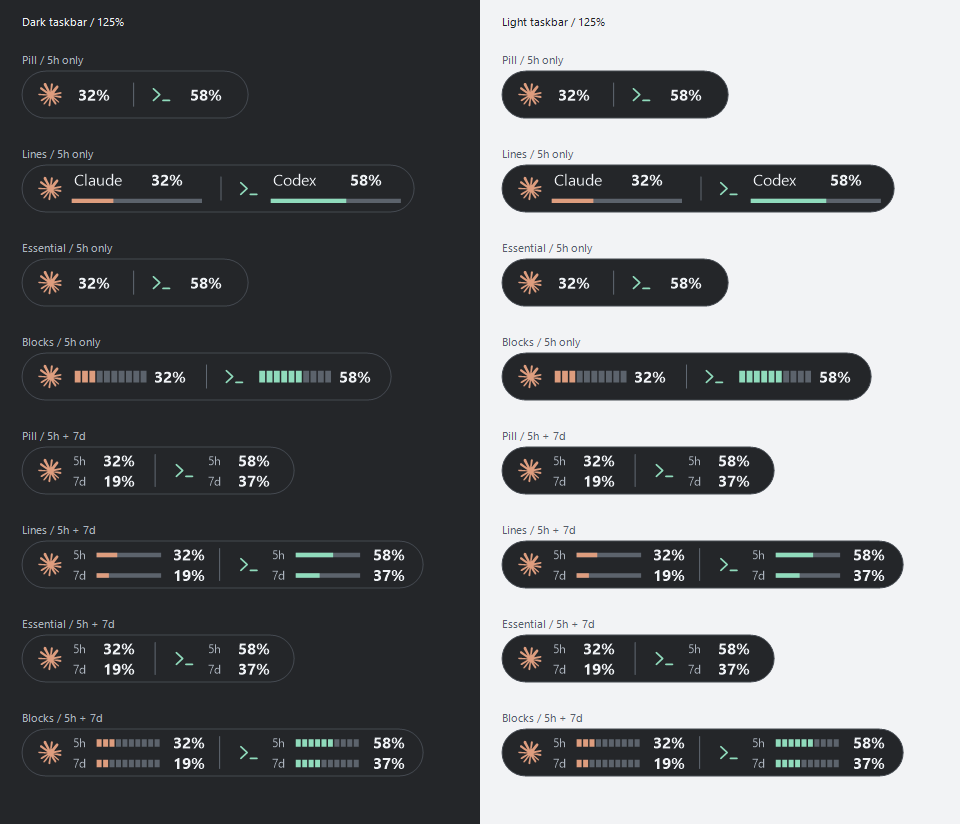
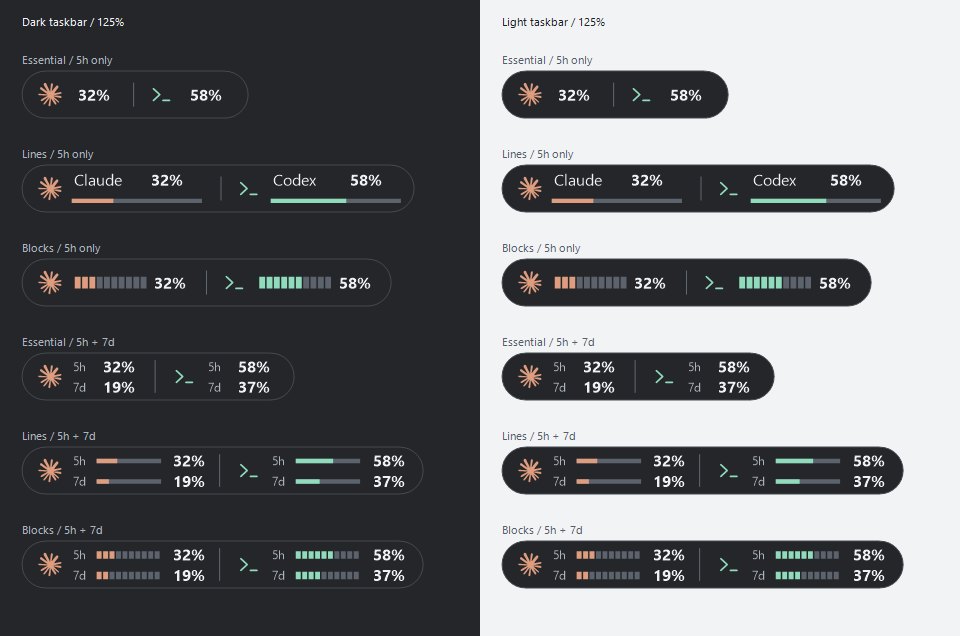
Remove duplicate Pill option and default to Essential, Lines, Blocks

diff --git a/src/Taskcode.Probe/Program.cs b/src/Taskcode.Probe/Program.cs
@@ -122,7 +122,7 @@ namespace Taskcode.Probe
                         Assert(!window.Visible && !window.IsDisposed && window.TrayVisible, "Closing settings must hide them while keeping the tray application alive.");
                         Assert(startupBefore == StartupRegistration.IsEnabled(Application.ExecutablePath), "Opening and closing the app must not enable startup.");
                         Assert(StartupRegistration.CommandFor(@"C:\Program Files\Taskcode\Taskcode.exe") == "\"C:\\Program Files\\Taskcode\\Taskcode.exe\" --tray", "Startup must quote paths containing spaces and launch in tray mode.");
-                        result = "PASS: fixed dark settings, Pill-first defaults, navigation and bounds across taskbar palettes, tray lifecycle, unchanged startup registration, quoted startup command, and isolated Claude/Codex details.";
+                        result = "PASS: fixed dark settings, Essential-first defaults, navigation and bounds across taskbar palettes, tray lifecycle, unchanged startup registration, quoted startup command, and isolated Claude/Codex details.";
                         success = true;
                     }
                     catch (Exception ex) { result = "FAIL: " + ex.Message; }
@@ -183,7 +183,7 @@ namespace Taskcode.Probe
                 SignInChecks.Run(AppDomain.CurrentDomain.BaseDirectory);
                 DetailChecks.Run();
                 RenderChecks.Run(AppDomain.CurrentDomain.BaseDirectory);
-                File.WriteAllText(output, "PASS: 7 placement assertions.\nPASS: provider routing in all 4 styles, with weekly off/on and scaled coordinates.\nPASS: 10 time-progress and budget-pace assertions.\nPASS: recent-speed, source cadence, sparse observations, projections, and sequential-fade checks.\nPASS: account parsing, missing/expired windows, fractional readings, privacy, provider isolation, stale data, and no synthetic live observations.\nPASS: activity lifecycle, multiple sessions, incremental records, hook preservation, and staggered transparent Ripple rendering.\nPASS: full-area mouse input, context-menu isolation, no host activation, visibility, and redraw in Embedded/Overlay.\nPASS: account sign-in windows, existing/new-account routing, safe CLI argument handling, and Claude API response parsing.\nPASS: clean borderless Details, complete percentages, pointer retention, gap crossing, and immediate dismissal.\nPASS: all 4 styles in light/dark palettes, transparent outer corners, fixed dark capsule in every style, visible vector/text content, and palette contrast.\n");
+                File.WriteAllText(output, "PASS: 7 placement assertions.\nPASS: provider routing in all 3 styles, with weekly off/on and scaled coordinates.\nPASS: 10 time-progress and budget-pace assertions.\nPASS: recent-speed, source cadence, sparse observations, projections, and sequential-fade checks.\nPASS: account parsing, missing/expired windows, fractional readings, privacy, provider isolation, stale data, and no synthetic live observations.\nPASS: activity lifecycle, multiple sessions, incremental records, hook preservation, and staggered transparent Ripple rendering.\nPASS: full-area mouse input, context-menu isolation, no host activation, visibility, and redraw in Embedded/Overlay.\nPASS: account sign-in windows, existing/new-account routing, safe CLI argument handling, and Claude API response parsing.\nPASS: clean borderless Details, complete percentages, pointer retention, gap crossing, and immediate dismissal.\nPASS: all 3 styles in light/dark palettes, transparent outer corners, fixed dark capsule in every style, visible vector/text content, and palette contrast.\n");
                 return 0;
             }
             catch (Exception ex) { File.WriteAllText(output, "FAIL: " + ex.Message); return 1; }

diff --git a/src/Taskcode.Probe/Indicator.cs b/src/Taskcode.Probe/Indicator.cs
@@ -6,12 +6,12 @@ using System.Windows.Forms;
 
 namespace Taskcode.Probe
 {
-    internal enum IndicatorStyle { Pill, Lines, Essential, Blocks }
+    internal enum IndicatorStyle { Essential, Lines, Blocks }
     internal enum HostMode { Embedded, Overlay }
 
     internal sealed class IndicatorView : Control
     {
-        internal IndicatorStyle Style = IndicatorStyle.Pill;
+        internal IndicatorStyle Style = IndicatorStyle.Essential;
         internal bool ShowWeekly;
         internal int PulseKey;
         internal int ActivityKey;
@@ -30,7 +30,7 @@ namespace Taskcode.Probe
         }
         private const float IndicatorScale = 1.17f;
         private const int PillLeftPadding = 8;
-        private static bool Compact(IndicatorStyle style) { return style == IndicatorStyle.Essential || style == IndicatorStyle.Pill; }
+        private static bool Compact(IndicatorStyle style) { return style == IndicatorStyle.Essential; }
         private static int ProviderGapReduction(IndicatorStyle style, bool weekly) { return Compact(style) ? (weekly ? 4 : 8) : 0; }
         private static int ContentWidth(IndicatorStyle style, bool showWeekly)
         {
@@ -85,7 +85,6 @@ namespace Taskcode.Probe
                     g.DrawPath(edge, shape);
                 }
                 g.TranslateTransform(PillLeftPadding, 0);
-                if (style == IndicatorStyle.Pill) style = IndicatorStyle.Essential;
             }
             // Pixel units avoid applying the monitor's DPI twice when scaling.
             // Grayscale antialiasing works on an alpha surface without colored fringes.

diff --git a/src/Taskcode.Probe/Settings.cs b/src/Taskcode.Probe/Settings.cs
@@ -8,7 +8,7 @@ namespace Taskcode.Probe
 
     internal sealed class Settings
     {
-        internal IndicatorStyle Style = IndicatorStyle.Pill;
+        internal IndicatorStyle Style = IndicatorStyle.Essential;
         internal HostMode Mode = HostMode.Embedded;
         internal DetailsTrigger DetailsTrigger = DetailsTrigger.Hover;
         internal bool ShowWeekly;
@@ -26,7 +26,9 @@ namespace Taskcode.Probe
                 HostMode mode;
                 DetailsTrigger detailsTrigger;
                 bool showWeekly;
-                if (Enum.TryParse(doc.DocumentElement.GetAttribute("style"), out style) && Enum.IsDefined(typeof(IndicatorStyle), style)) value.Style = style;
+                string savedStyle = doc.DocumentElement.GetAttribute("style");
+                if (savedStyle == "Pill") savedStyle = "Essential";
+                if (Enum.TryParse(savedStyle, out style) && Enum.IsDefined(typeof(IndicatorStyle), style)) value.Style = style;
                 if (Enum.TryParse(doc.DocumentElement.GetAttribute("mode"), out mode) && Enum.IsDefined(typeof(HostMode), mode)) value.Mode = mode;
                 if (Enum.TryParse(doc.DocumentElement.GetAttribute("detailsTrigger"), out detailsTrigger) && Enum.IsDefined(typeof(DetailsTrigger), detailsTrigger)) value.DetailsTrigger = detailsTrigger;
                 if (bool.TryParse(doc.DocumentElement.GetAttribute("showWeekly"), out showWeekly)) value.ShowWeekly = showWeekly;

diff --git a/src/Taskcode.Probe/SettingsMenuChecks.cs b/src/Taskcode.Probe/SettingsMenuChecks.cs
@@ -22,7 +22,7 @@ namespace Taskcode.Probe
                 if (startup != null && startup.AccessibleName == "Show weekly quota in the indicator") weeklyToggle = startup;
                 if (startup != null && startup.Text == "Start with Windows") { startups++; Check(startup.Checked == startupExpected, "Refactoring settings must preserve Windows startup preference."); }
                 var select = control as ComboBox;
-                if (select != null && select.AccessibleName == "Indicator style") { styles++; Check(select.Items.Count == 4 && (string)select.Items[0] == "Pill" && new Settings().Style == IndicatorStyle.Pill, "All four indicator styles must remain available."); }
+                if (select != null && select.AccessibleName == "Indicator style") { styles++; Check(select.Items.Count == 3 && (string)select.Items[0] == "Essential" && (string)select.Items[1] == "Lines" && (string)select.Items[2] == "Blocks" && new Settings().Style == IndicatorStyle.Essential, "The three styles must be ordered Essential, Lines, Blocks, with Essential as default."); }
                 if (control is Button && (control.AccessibleName == "Connect Claude" || control.AccessibleName == "Connect Codex")) accounts++;
                 if (control.Parent != null) Check(control.Parent.ClientRectangle.Contains(control.Bounds), "Settings control exceeds its parent: " + control.Text);
             }

diff --git a/src/Taskcode.Probe/SettingsMenu.cs b/src/Taskcode.Probe/SettingsMenu.cs
@@ -65,7 +65,7 @@ namespace Taskcode.Probe
             preview.Style = settings.Style; preview.ShowWeekly = settings.ShowWeekly; preview.Usage = usage; preview.Theme = theme;
             preview.AccessibleName = IndicatorView.LiveAccessibleText(usage, settings.ShowWeekly); previewPanel.Controls.Add(preview);
             var result = new MenuControls();
-            result.Style = MenuSelect(appearance, "Style", 128, new[] { "Pill", "Lines", "Essential", "Blocks" }, (int)settings.Style, "Indicator style");
+            result.Style = MenuSelect(appearance, "Style", 128, new[] { "Essential", "Lines", "Blocks" }, (int)settings.Style, "Indicator style");
             result.Trigger = MenuSelect(appearance, "Open details", 172, new[] { "On hover", "On click" }, (int)settings.DetailsTrigger, "Open details");
             result.Weekly = new SettingsToggle { Text = "Weekly quota", Location = new Point(12, 216), Size = new Size(316, 26), Checked = settings.ShowWeekly, AccessibleName = "Show weekly quota in the indicator" }; appearance.Controls.Add(result.Weekly);
             var animation = MenuButton(appearance, "Preview animation", 0, 264, 158, 30, "action"); animation.Click += delegate { PreviewAnimation(); };

diff --git a/docs/TASKBAR-INTEGRATION.md b/docs/TASKBAR-INTEGRATION.md
@@ -29,7 +29,7 @@ Taskbar class names are implementation details. A successful test on one Windows
 - Uses a per-pixel alpha surface for both placement modes, without painting a background rectangle.
 - Reads `SystemUsesLightTheme` for the taskbar palette and checks for changes once per second, without modifying Windows settings.
 - Uses pixel-sized indicator fonts with one DPI transform, avoiding double scaling.
-- Supports four styles, immediate preview, and local preferences.
+- Supports three styles, immediate preview, and local preferences.
 - Uses live provider connections in normal startup and explicitly simulated data in offline previews. See [account connections](ACCOUNTS.md) for authentication and privacy.
 
 The measurement is a snapshot, not a reserved slot. A newly added taskbar item could briefly overlap before the next measurement. A production host needs stronger layout coordination or faster collision handling.
@@ -46,7 +46,7 @@ Initial desktop: Windows build 26300; primary taskbar at 120 DPI. The legacy reg
 | Live alpha surface | Windows accepted the transparent Embedded surface at 120 DPI; current light-taskbar palette detected |
 | Embedded mode | Host verified that its parent handle matches the taskbar; UI reports active |
 | Overlay mode | Placement path activated; UI reports active |
-| Switch between all four styles | All four previews visually reviewed; no clipped provider values observed |
+| Switch between all three styles | All three previews visually reviewed; no clipped provider values observed |
 | Open demo details | English provider names, consumed percentages, reset times, and sample-data disclosure visually reviewed |
 | Keyboard navigation | Style selector reached with Shift+Tab and reset with Home |
 | Pause indicator | Paused state observed |
@@ -67,7 +67,7 @@ Windows passes clicks through alpha-zero pixels in layered windows. The live inp
 
 - Primary horizontal taskbar only.
 - Indicator, Details, settings menu, and connection windows use a fixed dark palette regardless of the Windows light/dark setting.
-- Pill is the default and first style. All styles share its dark opaque capsule with transparent outer corners, without acrylic effects. Exact blending on the actual taskbar still needs visual confirmation after this change.
+- Essential is the default and first style, followed by Lines and Blocks. All styles share a dark opaque capsule with transparent outer corners, without acrylic effects. Exact blending on the actual taskbar still needs visual confirmation after this change.
 - Does not reserve space or move Windows controls; may hide on a crowded taskbar.
 - Overlay does not yet suppress itself for fullscreen applications.
 - Taskbar class names and accessibility structure can change with Windows updates.

diff --git a/docs/DESIGN.md b/docs/DESIGN.md
@@ -4,20 +4,19 @@
 
 Preferred: inside the taskbar, to the left of the hidden-icons arrow. Fallback: an overlay in that same area. Avoid covering the clock, system tray, or other applications' buttons.
 
-Integration and overlay are technical approaches to validate, independent of the four display styles.
+Integration and overlay are technical approaches to validate, independent of the three display styles.
 
 ## Approved styles
 
-1. **Pill (default):** compact symbols and percentages.
+1. **Essential (default):** compact symbols and percentages.
 2. **Lines:** names and thin horizontal bars.
-3. **Essential:** compact symbols and percentages.
-4. **Blocks:** horizontal segmented meters.
+3. **Blocks:** horizontal segmented meters.
 
-All four styles render inside the same dark rounded capsule with a subtle border.
+All three styles render inside the same dark rounded capsule with a subtle border.
 
 Weekly readings are opt-in through **Show weekly quota in the indicator**, disabled by default. When enabled, each provider is identified by its symbol and receives two rows labeled `5h` and `7d`, using the selected style. The height stays constant; the width expands to keep both readings legible. The detail panel always retains both periods.
 
-The **Indicator style** setting provides an immediate preview and saves the selection. Pill appears first and is the default for new preferences. The indicator, settings, Details, and account windows use a fixed dark palette regardless of the Windows taskbar light/dark setting. The capsule retains transparent outer corners. Windows high-contrast accessibility settings remain respected.
+The **Indicator style** setting provides an immediate preview and saves the selection. Essential appears first and is the default for new preferences. Saved legacy Pill preferences load as Essential. The indicator, settings, Details, and account windows use a fixed dark palette regardless of the Windows taskbar light/dark setting. The capsule retains transparent outer corners. Windows high-contrast accessibility settings remain respected.
 
 Settings use a compact borderless menu with Appearance, Accounts, and General navigation. Body text uses Segoe UI 9pt; the application heading is 14pt. Settings, selectors, previews, and account windows share the fixed dark Taskcode palette. Verbose instructions and placement diagnostics are kept out of the primary layout; necessary context remains available in tooltips. The close control hides settings, and Exit ends the tray application.
 

diff --git a/README.md b/README.md
@@ -12,22 +12,21 @@ Taskcode is a Windows taskbar companion for monitoring Claude and Codex quota wi
 
 These previews are rendered by the current application with **sample data**. They show implemented controls and styles, rather than proposed designs. Indicator previews use sample light/dark taskbar backgrounds to demonstrate contrast. Every style uses the same dark capsule; settings, Details, and account windows share its fixed dark palette.
 
-### Four indicator styles
+### Three indicator styles
 
-![Pill, Lines, Essential, and Blocks over dark and light taskbars, with weekly readings off and on](docs/images/current-indicators.png)
+![Essential, Lines, and Blocks over dark and light taskbars, with weekly readings off and on](docs/images/current-indicators.png)
 
 | Style | Indicator | Availability |
 | --- | --- | --- |
-| Pill | Compact icons and percentages | Default |
+| Essential | Compact icons and percentages | Default |
 | Lines | Names and thin bars inside the capsule | Configurable |
-| Essential | Icons and percentages inside the capsule | Configurable |
 | Blocks | Segmented meters inside the capsule | Configurable |
 
-Weekly readings are optional and disabled by default. Enabling them adds labeled `5h` and `7d` rows within the selected style. There are four display styles; placement is a separate technical setting. All styles keep the same dark background and light text even on a light Windows taskbar; high-contrast mode uses the system palette.
+Weekly readings are optional and disabled by default. Enabling them adds labeled `5h` and `7d` rows within the selected style. There are three display styles; placement is a separate technical setting. All styles keep the same dark background and light text even on a light Windows taskbar; high-contrast mode uses the system palette.
 
 Active local turns show a subtle **Ripple** around the provider symbol, in its own accent color. This follows execution signals rather than quota polling. See [activity detection and limitations](docs/ACTIVITY.md).
 
-![Ripple phases around Claude and Codex symbols in all four styles and both themes](docs/images/current-ripple.png)
+![Ripple phases around Claude and Codex symbols in all three styles and both themes](docs/images/current-ripple.png)
 
 ### Quota details
 

diff --git a/docs/PROTOTYPE.md b/docs/PROTOTYPE.md
@@ -27,7 +27,7 @@ The details also show animated, filled consumption-speed arrows and approximate 
 
 ## Controls
 
-1. Keep **Pill (default)** or select **Lines**, **Essential**, or **Blocks** inside the same dark capsule.
+1. Keep **Essential (default)** or select **Lines** or **Blocks** inside the same dark capsule.
 2. Start with **Embedded (experimental)** and check the status below the preview.
 3. Look just before the primary taskbar's system tray for provider readings. Use the account connection buttons to complete setup. `--` means unavailable or stale; the details show source and age. Offline demo mode is identified explicitly.
 4. Choose **Open details > Hover (default)** to open only the hovered provider's card, or **Click only** to open it only when that provider is clicked. Moving between Claude and Codex switches cards without a deliberate hover delay; only one is shown at a time. Both modes close the card immediately when the pointer leaves the card, its trigger, and the narrow crossing between them. Native pointer events and a 16ms fallback tracker keep transitions responsive without changing account polling. **Details** offers a provider menu, and clicking a provider in the preview opens its card as well. Escape dismisses it.
